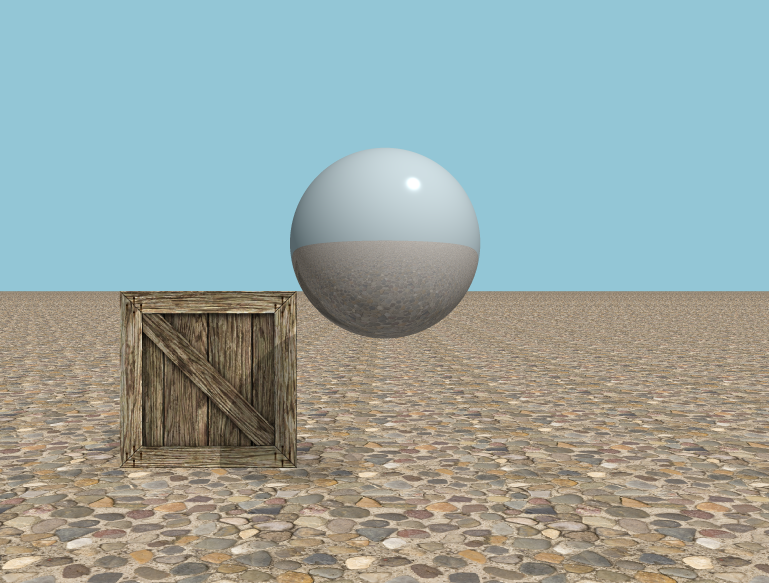
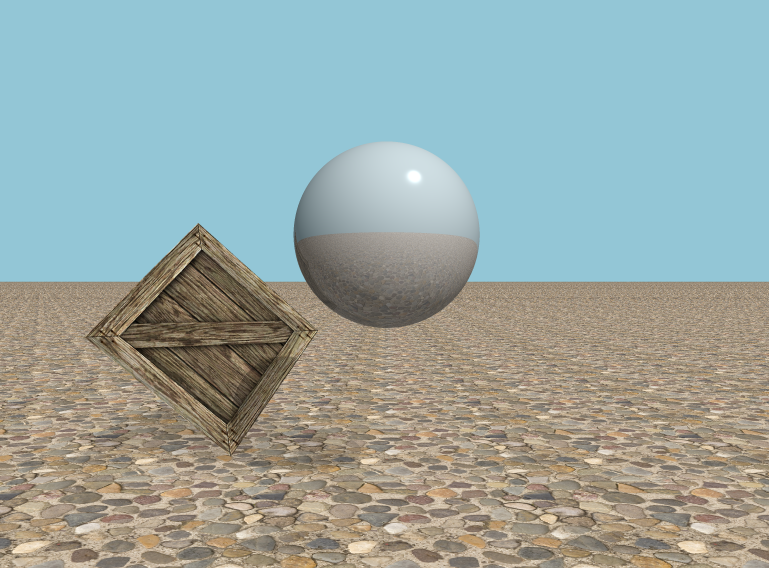
Transformations of meshes

diff --git a/Source/RayTracy/Matrix.cpp b/Source/RayTracy/Matrix.cpp
@@ -1,0 +1,101 @@
+#include "Matrix.h"
+#include <memory.h>
+
+Matrix4::Matrix4()
+{
+    memset(data, 0, sizeof(data));
+}
+
+Matrix4::Matrix4(std::initializer_list<float> list)
+{
+    std::copy(list.begin(), list.end(), data);
+}
+
+Matrix4 Matrix4::RotationX(float angle)
+{
+    float c = cos(angle);
+    float s = sin(angle);
+
+    return Matrix4
+    {
+        1, 0, 0, 0,
+        0, c, -s, 0,
+        0, s, c, 0,
+        0, 0, 0, 1
+    };
+}
+
+Matrix4 Matrix4::RotationY(float angle)
+{
+    float c = cos(angle);
+    float s = sin(angle);
+
+    return Matrix4
+    {
+        c, 0, s, 0,
+        0, 1, 0, 0,
+        -s, 0, c, 0,
+        0, 0, 0, 1
+    };
+}
+
+Matrix4 Matrix4::RotationZ(float angle)
+{
+    float c = cos(angle);
+    float s = sin(angle);
+
+    return Matrix4
+    {
+        c, -s, 0, 0,
+        s, c, 0, 0,
+        0, 0, 1, 0,
+        0, 0, 0, 1
+    };
+}
+
+Matrix4 Matrix4::Translation(float dx, float dy, float dz)
+{
+    return Matrix4
+    {
+        1, 0, 0, dx,
+        0, 1, 0, dy,
+        0, 0, 1, dz,
+        0, 0, 0, 1
+    };
+}
+
+Matrix4 Matrix4::Identity()
+{
+    return Matrix4
+    {
+        1, 0, 0, 0,
+        0, 1, 0, 0,
+        0, 0, 1, 0,
+        0, 0, 0, 1
+    };
+}
+
+Matrix4 Matrix4::operator*(const Matrix4& other) const
+{
+    Matrix4 result;
+    for (int i = 0; i < 4; i++) {
+        for (int j = 0; j < 4; j++) {
+            float sum = 0;
+            for (int k = 0; k < 4; k++) {
+                sum += Get(i, k) * other.Get(k, j);
+            }
+            result.Set(i, j, sum);
+        }
+    }
+    return result;
+}
+
+Vector3 Matrix4::operator*(Vector3 v) const
+{
+    return Vector3
+    {
+        Get(0, 0) * v.x + Get(0, 1) * v.y + Get(0, 2) * v.z + Get(0, 3),
+        Get(1, 0) * v.x + Get(1, 1) * v.y + Get(1, 2) * v.z + Get(1, 3),
+        Get(2, 0) * v.x + Get(2, 1) * v.y + Get(2, 2) * v.z + Get(2, 3)
+    };
+}

diff --git a/Source/RayTracy/SceneLoader.cpp b/Source/RayTracy/SceneLoader.cpp
@@ -169,6 +169,7 @@ bool SceneLoader::ParseTriangle(FILE* file, Triangle* triangle, uint32_t& lineNu
 
 bool SceneLoader::ParseMesh(FILE* file, Mesh* mesh, uint32_t& lineNumber, char* line, char* token)
 {
+    Vector3 position, rotation;
     int verticesCount = 0, indicesCount = 0, hasTextureCoordinates = 0;
 
     bool result = true;
@@ -182,6 +183,8 @@ bool SceneLoader::ParseMesh(FILE* file, Mesh* mesh, uint32_t& lineNumber, char* 
         LookForInt("vertices", verticesCount);
         LookForInt("indices", indicesCount);
         LookForInt("hasTextureCoordinates", hasTextureCoordinates);
+        LookForVector("position", position);
+        LookForVector("rotation", rotation);
         if (strcmp("data", name) == 0) {
             break;
         }
@@ -193,6 +196,7 @@ bool SceneLoader::ParseMesh(FILE* file, Mesh* mesh, uint32_t& lineNumber, char* 
     }
 
     mesh->Resize(verticesCount, indicesCount, hasTextureCoordinates == 1);
+    mesh->SetTransformation(position, rotation);
 
     for (int i = 0; i < verticesCount; i++) {
         fgets(line, LineLength, file);

diff --git a/Source/RayTracy/Geometry.cpp b/Source/RayTracy/Geometry.cpp
@@ -200,6 +200,10 @@ bool Mesh::HasIntersection(Ray ray, float* t, Vector3* normal, float* u, float* 
     float minDistance = INFINITY, distance, minU, minV, cu, cv;
     Vector3 minN, n;
 
+    ray.origin = rotationMatrix * translationMatrix * ray.origin;
+    ray.direction = rotationMatrix * ray.direction;
+    ray.direction.Normalize();
+
     for (uint32_t i = 0; i < indicesCount; i += 3) {
         uint32_t indexA = indices[i], indexB = indices[i + 1], indexC = indices[i + 2];
 
@@ -269,6 +273,12 @@ void Mesh::Resize(uint32_t verticesCount, uint32_t indicesCount, bool hasTexture
     if (hasTextureCoordinates) {
         textureCoordinates = new Vector2[verticesCount];
     }
+}
+
+void Mesh::SetTransformation(Vector3 position, Vector3 rotation)
+{
+    rotationMatrix = Matrix4::RotationX(-rotation.x) * Matrix4::RotationZ(-rotation.z) * Matrix4::RotationY(-rotation.y);
+    translationMatrix = Matrix4::Translation(-position.x, -position.y, -position.z);
 }
 
 Mesh::~Mesh()

diff --git a/Source/RayTracy/Matrix.h b/Source/RayTracy/Matrix.h
@@ -1,0 +1,37 @@
+#ifndef MATRIX_H
+#define MATRIX_H
+
+#include "Vector.h"
+#include <stdint.h>
+#include <memory>
+
+class Matrix4
+{
+private:
+    float data[16];
+
+public:
+    Matrix4();
+    Matrix4(std::initializer_list<float> list);
+
+    static Matrix4 RotationX(float angle);
+    static Matrix4 RotationY(float angle);
+    static Matrix4 RotationZ(float angle);
+    static Matrix4 Translation(float dx, float dy, float dz);
+    static Matrix4 Identity();
+
+    inline void Set(uint32_t i, uint32_t j, float value)
+    {
+        data[i * 4 + j] = value;
+    }
+
+    inline float Get(uint32_t i, uint32_t j) const
+    {
+        return data[i * 4 + j];
+    }
+
+    Vector3 operator*(Vector3 v) const;
+    Matrix4 operator*(const Matrix4& other) const;
+};
+
+#endif

diff --git a/Source/RayTracy/Geometry.h b/Source/RayTracy/Geometry.h
@@ -2,6 +2,7 @@
 #define GEOMETRY_H
 
 #include "Vector.h"
+#include "Matrix.h"
 #include <stdint.h>
 
 #define PI 3.141592653589
@@ -90,6 +91,7 @@ struct Mesh : public Object
     uint32_t* indices;
     uint32_t indicesCount;
     uint32_t verticesCount;
+    Matrix4 rotationMatrix, translationMatrix;
 
     Mesh();
     Mesh(Mesh&& other);
@@ -113,6 +115,8 @@ struct Mesh : public Object
     {
         textureCoordinates[index] = value;
     }
+
+    void SetTransformation(Vector3 position, Vector3 rotation);
 
     ~Mesh();
 };

diff --git a/Source/RayTracy/Renderer.cpp b/Source/RayTracy/Renderer.cpp
@@ -4,7 +4,7 @@
 #include <math.h>
 #include <cmath>
 
-Renderer::Renderer() : maxDepth(3), samplesCount(1)
+Renderer::Renderer() : maxDepth(3), samplesCount(4)
 {
 }
 
